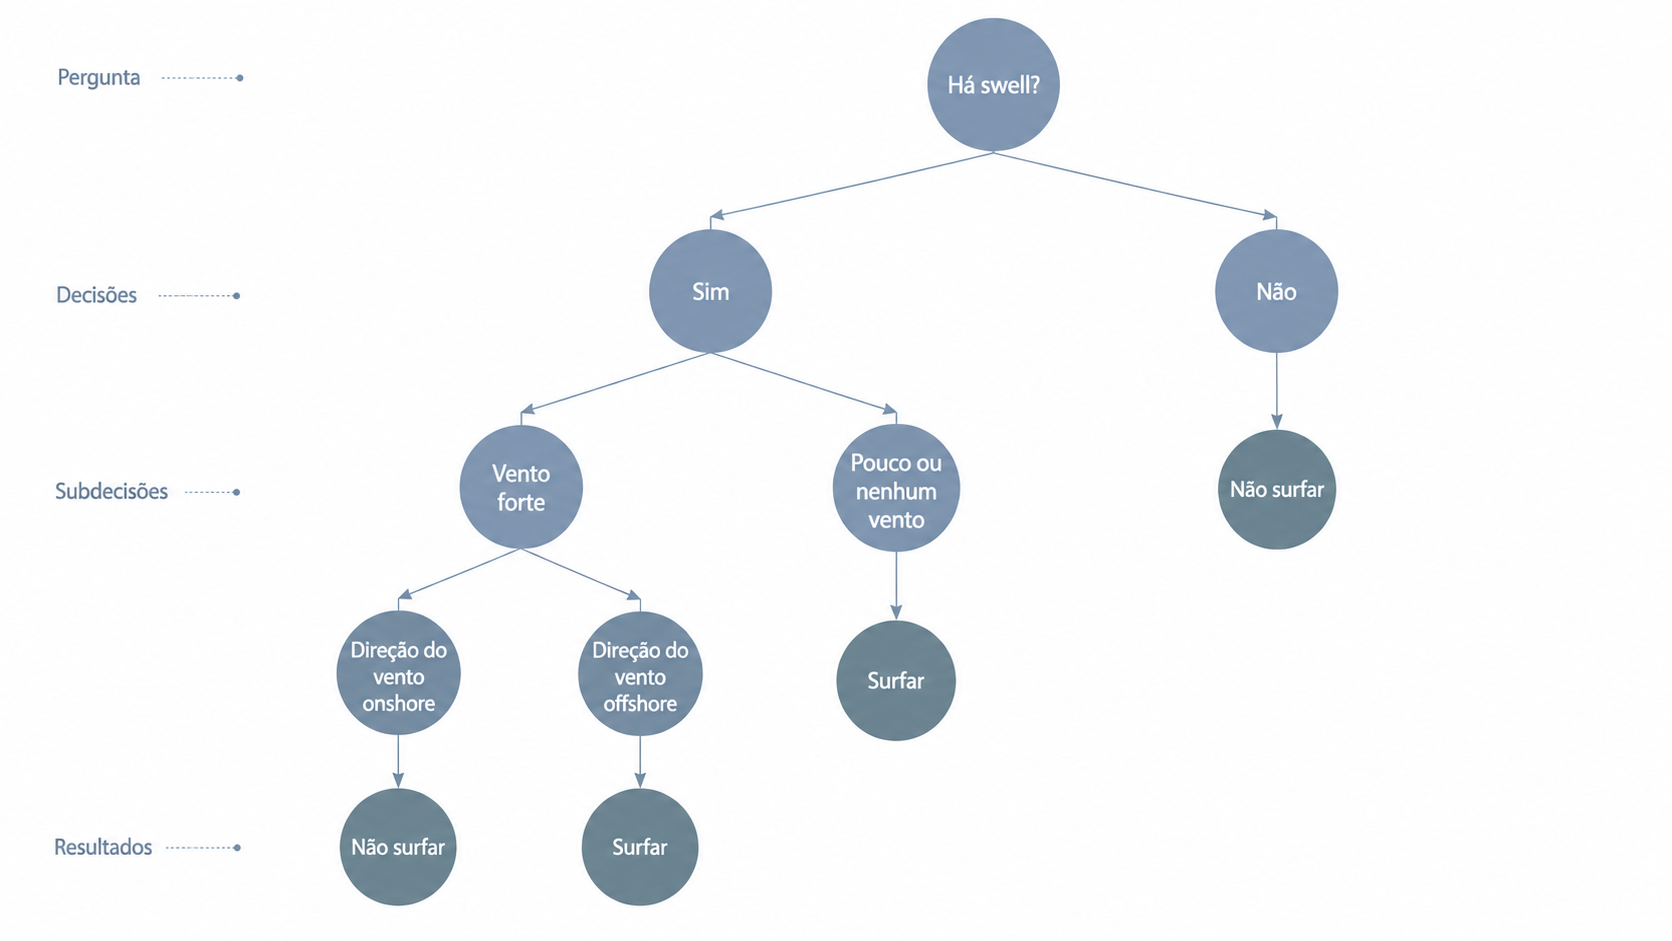
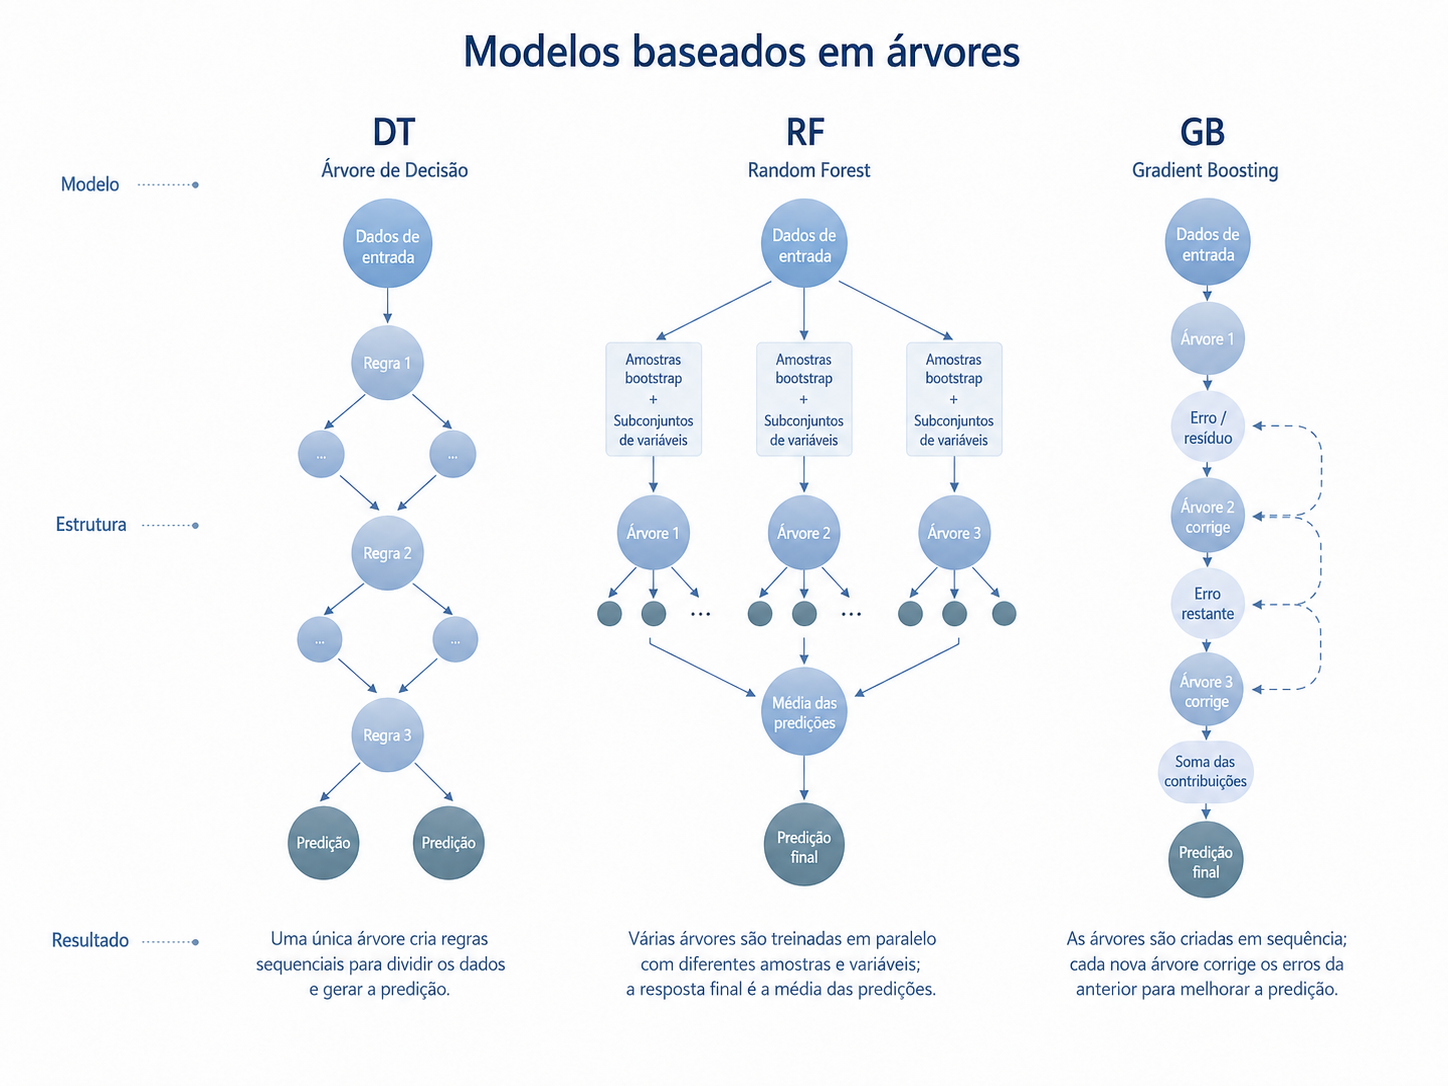
Imagens atualizadas (árvores, regressão, esquematização); nota R² movida para comparação final; comentários finais ajustados

diff --git a/chapters/5_conclusoes.tex b/chapters/5_conclusoes.tex
@@ -18,8 +18,6 @@
     \item \textcolor{orange!70!black}{T$_{ref,out}$}: diferença marginal (2,3\%) sobre Ridge; Ridge tem melhor CV (0,244 vs 0,346), indicando melhor extrapolação.
     \item \textcolor{green!70!black}{Flux}: única variável onde o mesmo modelo apresentou o menor Test \textbf{e} o menor CV (0,072) — PhyResidual aprendeu a corrigir o viés do 0D (R$^2$ 0,631 $\rightarrow$ 0,979).
   \end{Item}
-  \vfill
-  {\scriptsize Nota: R$^2$ pode assumir valores negativos quando o modelo é pior que a média dos dados (\cite{sklearn_r2}).}
   \note{Análise por variável: Tabela com quantitativas (RMSE, percentuais). Texto com qualitativas (data-driven vs híbrido, extrapolação, correção de viés). [~2 min]}
 \end{slide}
 %========================================================================
@@ -29,14 +27,15 @@
   \begin{columns}
     \begin{column}{0.94\linewidth}
     \begin{Item}[0.10]
-    \item As redes neurais híbridas (PhyResidual) apresentaram as melhores performances em Test RMSE para duas das três variáveis (Flux e T$_{ref}$), com melhora de \textbf{até 89\%} sobre o modelo 0D (89,0\% em T$_{alim}$ com a Baseline Flux; 73,8\% no Flux com PhyResidual).
+    \item As redes neurais híbridas (PhyResidual) apresentaram as melhores performances em Test RMSE para duas das três variáveis (Flux e T$_{ref}$), com melhora de \textbf{até 89\%} sobre o modelo 0D — obtida pela Baseline Flux em T$_{alim,out}$.
     \item A arquitetura residual atua como \textbf{corretor de viés} do modelo físico 0D: aprende a discrepância entre as predições físicas e os dados, preservando o comportamento físico onde ele está correto.
-    \item Em capacidade de generalização (CV), o PhyResidual apresentou os menores erros de CV \textbf{para o Flux} (0,060--0,072, dominando os primeiros lugares). Para as temperaturas, os modelos lineares (OLS/Ridge) tiveram CV menor, indicando melhor extrapolação nessas variáveis.
+    \item Em capacidade de generalização (CV), o PhyResidual apresentou os menores erros de CV \textbf{para o Flux}. Para as temperaturas, os modelos lineares (OLS/Ridge) tiveram CV menor — embora a diferença entre eles e o híbrido no Test RMSE tenha sido muito pequena.
     \item A \textbf{seleção de hiperparâmetros por alvo} não garantiu a melhor performance para aquele alvo — os modelos otimizados para T$_{alim}$ e T$_{ref}$ ficaram levemente acima do melhor (deltas de +0,012 a +0,104 no Test RMSE); apenas no Flux o otimizado para a variável apresentou a melhor performance.
+    \item O procedimento desenvolvido pode ser estendido a \textbf{outros processos físicos} do laboratório, com perspectiva de ganhos adicionais pela incorporação de modelos de referência mais complexos já disponíveis (ex.: modelo 2D via GITT).
     \end{Item}
     \end{column}
   \end{columns}
-  \note{Comentários finais: híbridos melhores no Test (até 89\% vs 0D); PhyResidual como corretor de viés; PhyResidual domina CV no Flux, lineares nas temperaturas; seleção de hiperparâmetros por alvo não garante melhor performance (deltas pequenos). [~2 min]}
+  \note{Comentários finais: híbridos melhores no Test (até 89\% vs 0D — Baseline Flux em Talim); PhyResidual como corretor de viés; PhyResidual domina CV no Flux, lineares nas temperaturas mas com diferença pequena no Test; seleção de hiperparâmetros por alvo não garante melhor performance; procedimento extensível a outros processos com modelos de referência mais complexos. [~2 min]}
 \end{slide}
 %========================================================================
 

diff --git a/chapters/4_resultados.tex b/chapters/4_resultados.tex
@@ -84,7 +84,9 @@
     \textbf{T$_{ref,out}$} & & --- & 0,851 & --- & 0,948 \\
     \bottomrule
   \end{tabular}
-  \note{Test RMSE em negrito = menor erro por variável; CV RMSE em negrito = melhor generalização. O Flux foi a única saída onde o menor Test RMSE e o menor CV RMSE pertencem ao mesmo modelo. [~2 min]}
+  \vfill
+  {\scriptsize Nota: R$^2$ pode assumir valores negativos quando o modelo é pior que a média dos dados (\cite{sklearn_r2}).}
+  \note{Test RMSE em negrito = menor erro por variável; CV RMSE em negrito = melhor generalização. O Flux foi a única saída onde o menor Test RMSE e o menor CV RMSE pertencem ao mesmo modelo. R² negativo no 0D: pior que a média. [~2 min]}
 \end{slide}
 %========================================================================
 
